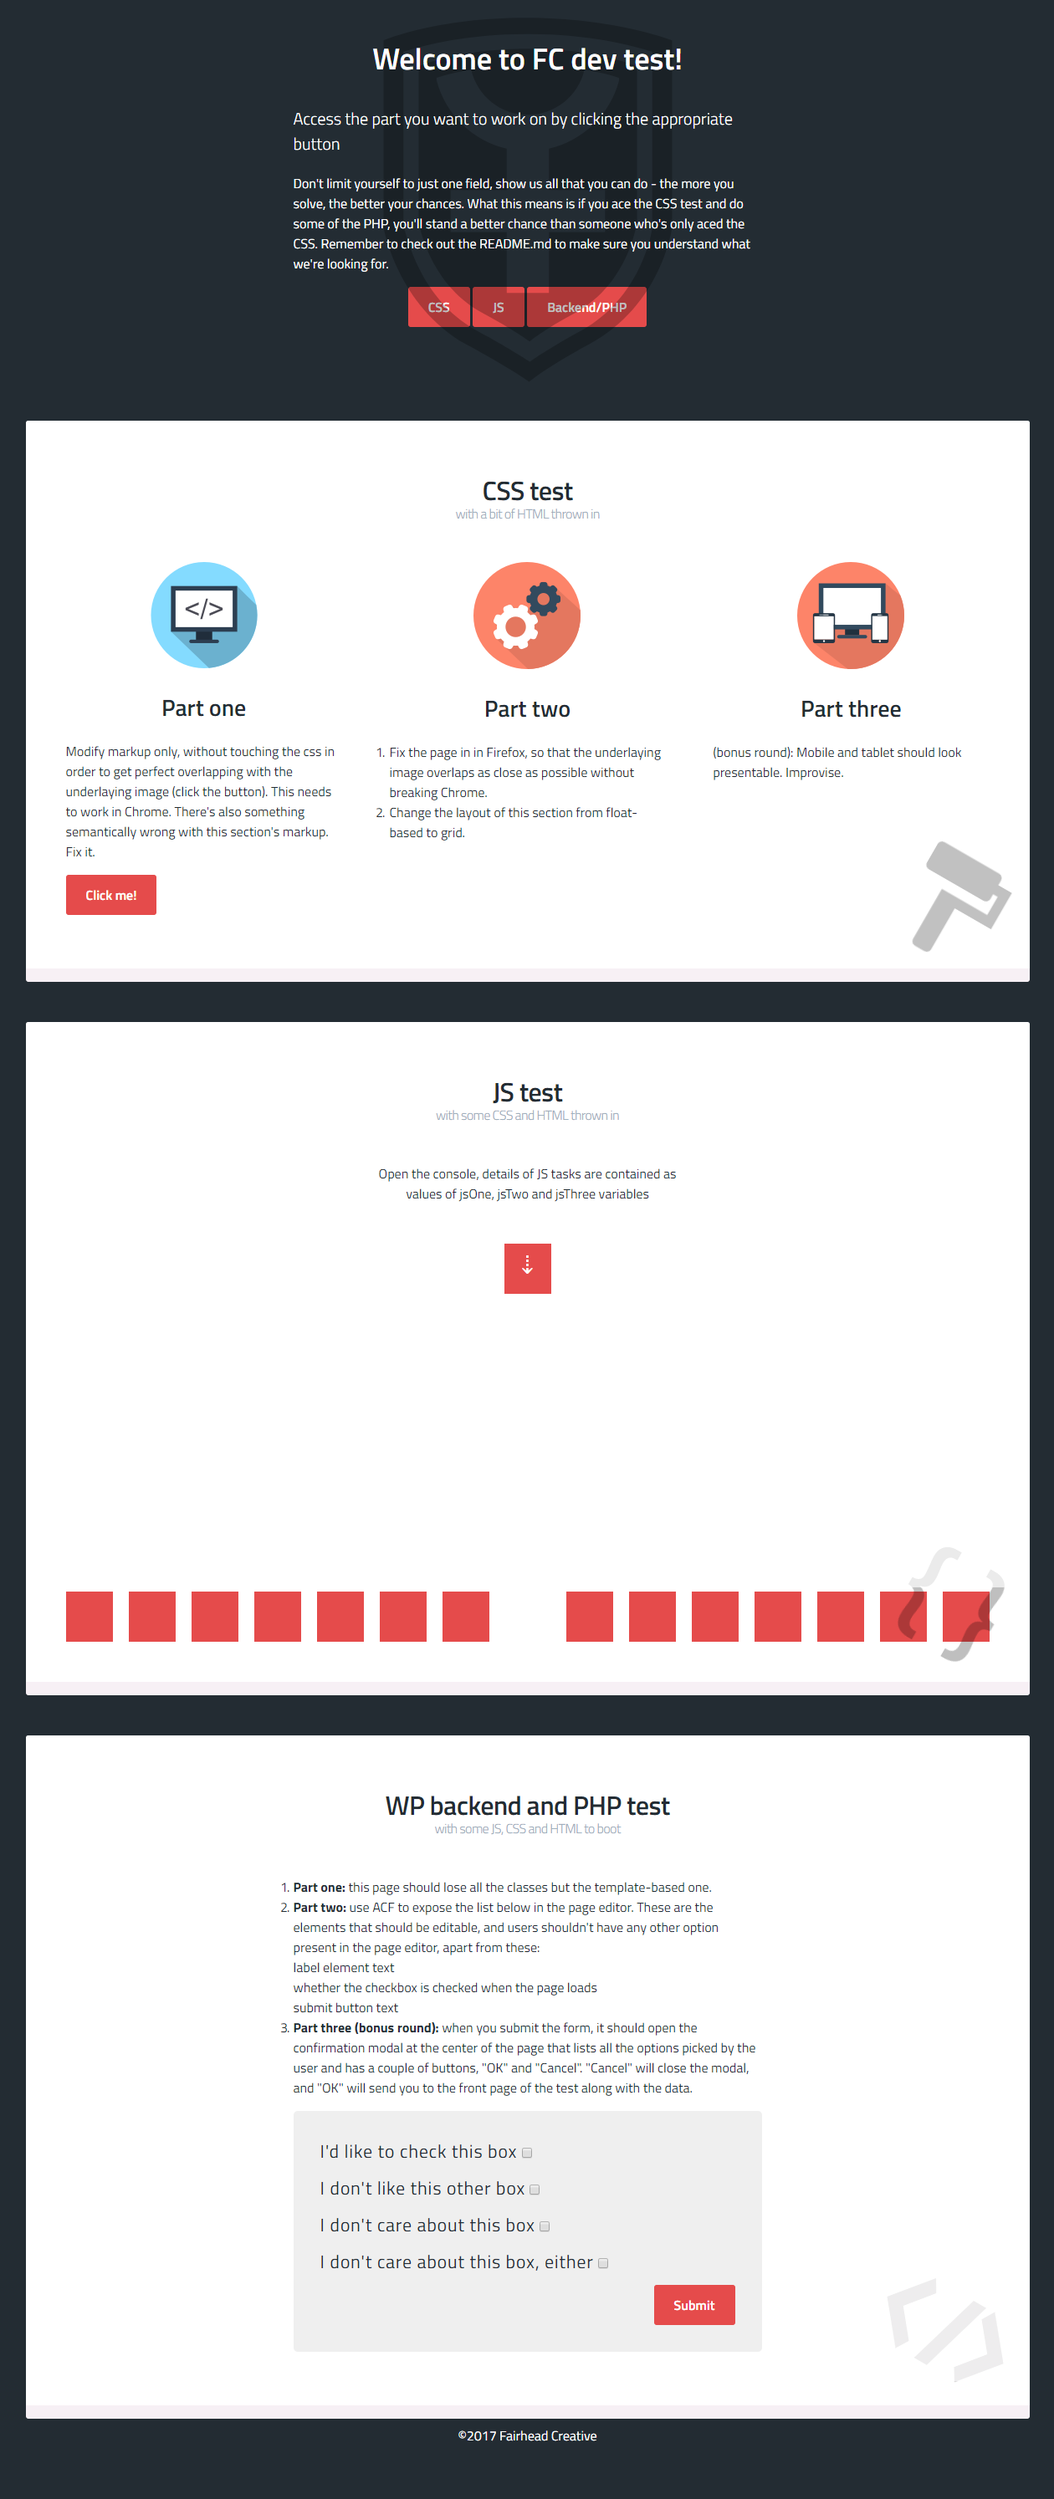
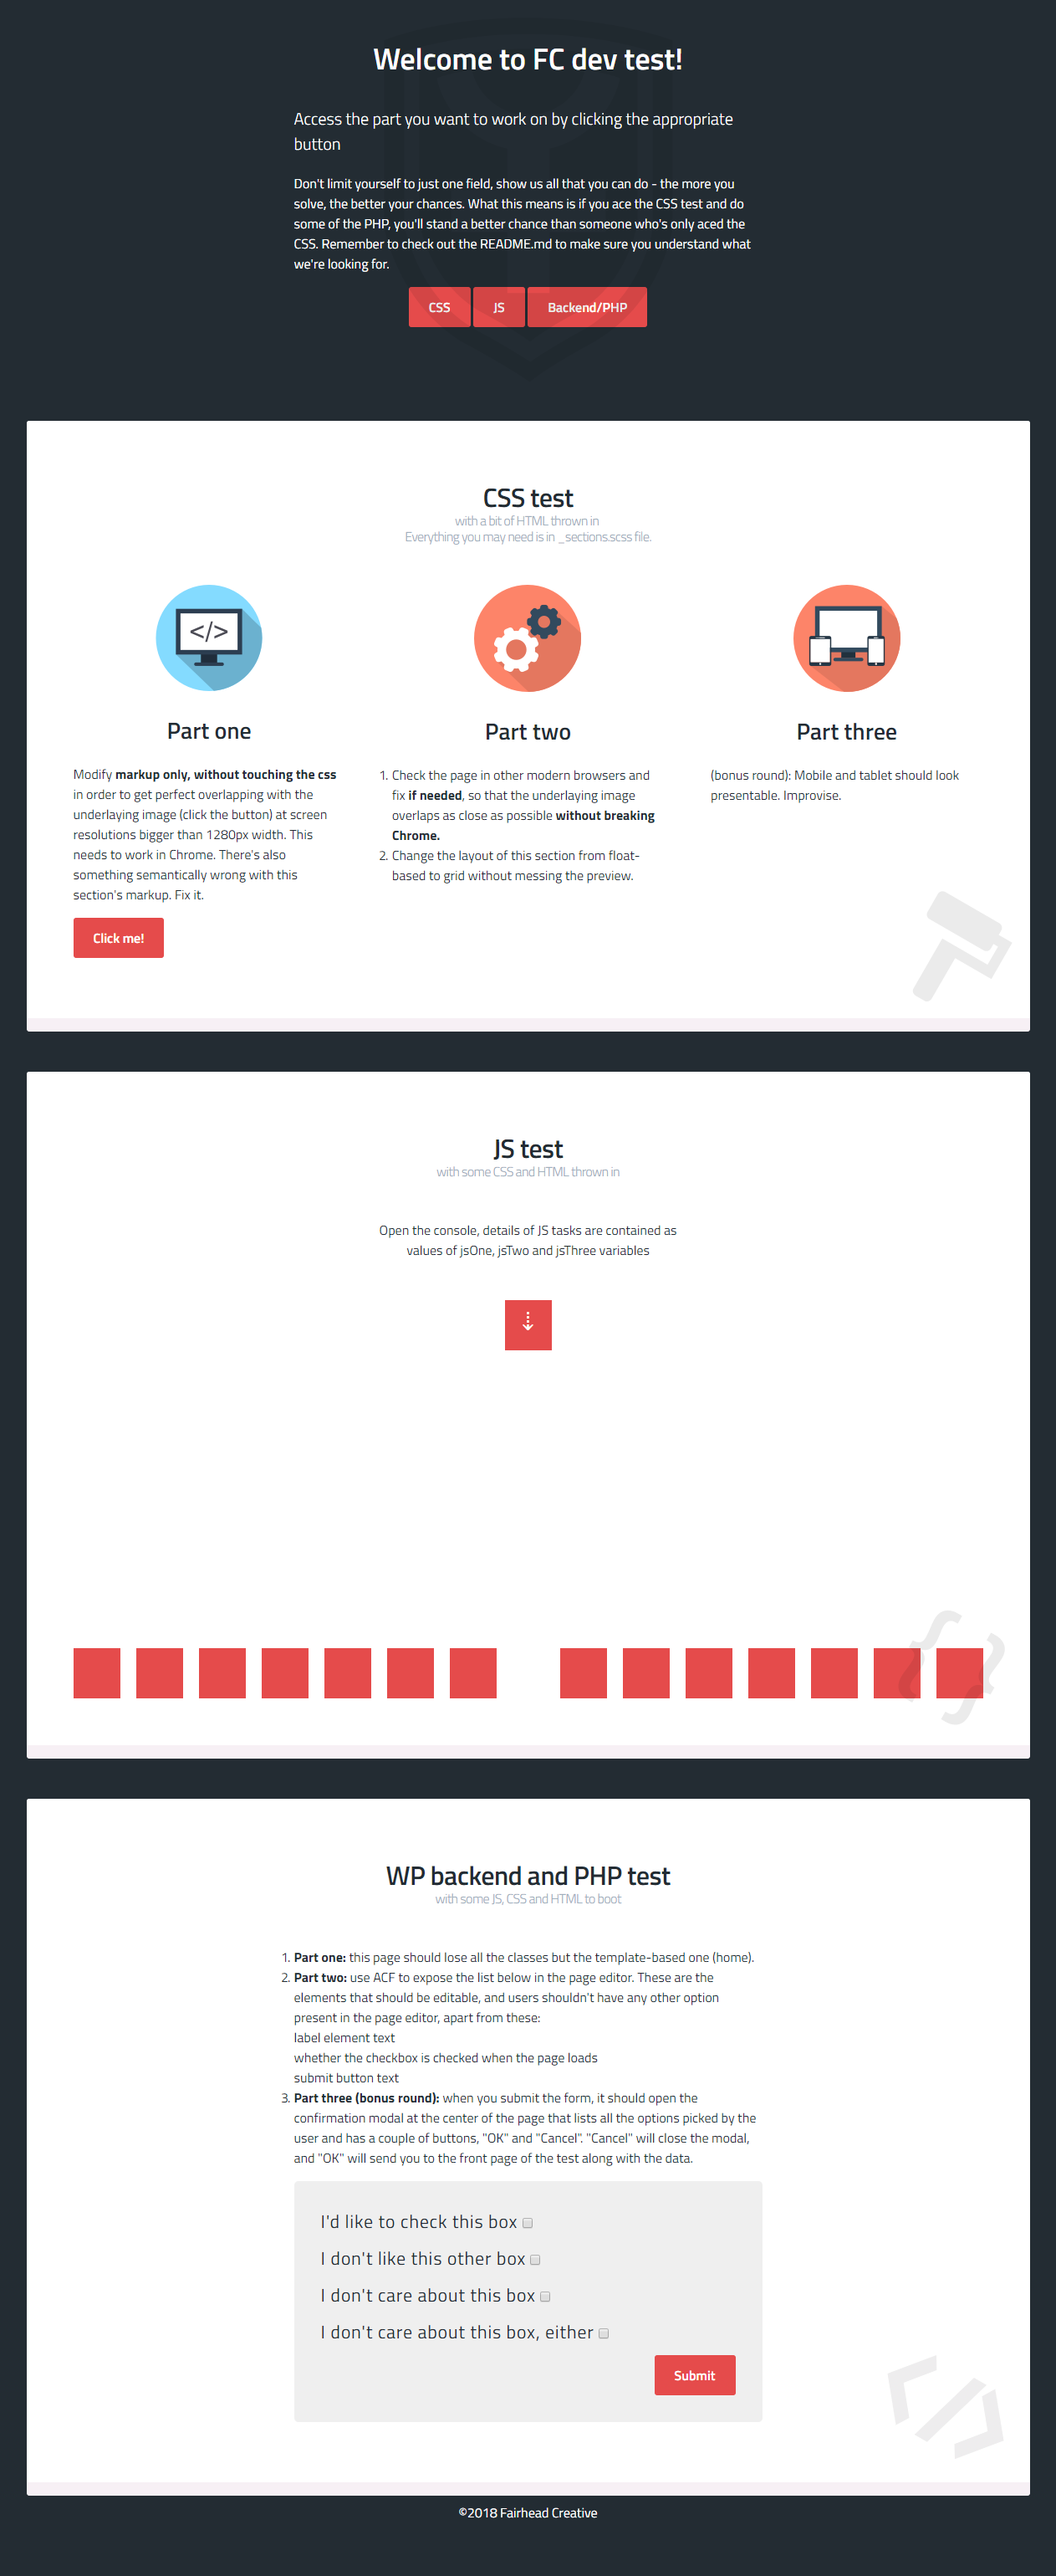
Modified test parameters

diff --git a/wp-content/themes/dev test/sass/theme/_mixins.scss b/wp-content/themes/dev test/sass/theme/_mixins.scss
@@ -1,35 +1,1 @@
 //mixins catalogue for use in any specific theme
-
-//transitions
-@mixin transition($property:all, $duration:$base-duration, $timing:null){
-  transition: $property $duration $timing;
-}
-
-//push in any direction for a number of ems
-@mixin push($direction, $value){
-  margin#{-$direction}: $base-spacing*$value;
-  
-  @if $direction == vertical {
-    $direction:null;
-    margin: $base-spacing*$value 0;
-  }
-  
-  @if $direction == horizontal {
-    $direction:null;
-    margin: 0 $base-spacing*$value;
-  }
-}
-
-//circle element
-@mixin circle($background:$action-color, $color:$black, $text-size:$base-font-size, $size:1){
-  display: inline-block;
-  background: $background;
-  font-size: $text-size;
-  color: $color;
-  border-radius: 50%;
-  width: $base-spacing*$size;
-  height: $base-spacing*$size;
-  line-height: $base-spacing*$size;
-  padding-right: $size*.03em;
-  text-align: center;
-}

diff --git a/wp-content/themes/dev test/includes/sections/section-css.php b/wp-content/themes/dev test/includes/sections/section-css.php
@@ -1,18 +1,18 @@
 <section class="content-css" id="css">
   <div class="content-container">
-    <h2>CSS test <span class="title-under">with a bit of HTML thrown in</span></h2>
+    <h2>CSS test <span class="title-under">with a bit of HTML thrown in <br>Everything you may need is in _sections.scss file.</span></h2>
       <article>
         <img src="<?php echo get_stylesheet_directory_uri(); ?>/images/css-markup.png">
         <h2>Part one</h2>
-        <p>Modify markup only, without touching the css in order to get perfect overlapping with the underlaying image (click the button). This needs to work in Chrome. There's also something semantically wrong with this section's markup. Fix it.</p>
+        <p>Modify <strong>markup only, without touching the css</strong> in order to get perfect overlapping with the underlaying image (click the button) at screen resolutions bigger than 1280px width. This needs to work in Chrome. There's also something semantically wrong with this section's markup. Fix it.</p>
         <p><a href="javascript:void(0);" class="button" data-toggle-trigger="overlay">Click me!</a></p>
       </article>
       <article>
         <img src="<?php echo get_stylesheet_directory_uri(); ?>/images/css-tweak.png">
         <h2>Part two</h2>
         <ol>
-          <li>Fix the page in in Firefox, so that the underlaying image overlaps as close as possible without breaking Chrome.</li>
-          <li>Change the layout of this section from float-based to grid.</li>
+          <li>Check the page in other modern browsers and fix <strong>if needed</strong>, so that the underlaying image overlaps as close as possible <strong>without breaking Chrome.</strong></li>
+          <li>Change the layout of this section from float-based to grid without messing the preview.</li>
         </ol>
       </article>
       <article>

diff --git a/wp-content/themes/dev test/functions.php b/wp-content/themes/dev test/functions.php
@@ -23,23 +23,6 @@ function helipad_scripts() {
 }
 add_action('wp_enqueue_scripts', 'helipad_scripts');
 
-
-// Remove extra data from the front of archive titles.
-add_filter( 'get_the_archive_title', function ($title) {
-  if ( is_category() ) {
-    $title = single_cat_title( '', false );
-  } elseif ( is_tag() ) {
-    $title = single_tag_title( '', false );
-  } elseif ( is_author() ) {
-    $title = '<span class="vcard">' . get_the_author() . '</span>' ;
-  }
-  return $title;
-});
-
-// Add post thumbnails.
-add_theme_support( 'post-thumbnails' );
-
-
 // Remove stock WP footer Message
 function wpse_edit_footer() {
   add_filter( 'admin_footer_text', 'wpse_edit_text', 11 );

diff --git a/wp-content/themes/dev test/includes/sections/section-php.php b/wp-content/themes/dev test/includes/sections/section-php.php
@@ -2,7 +2,7 @@
   <div class="content-container">
     <h2>WP backend and PHP test <span class="title-under">with some JS, CSS and HTML to boot</span></h2>
     <ol>
-      <li><strong>Part one:</strong> this page should lose all the classes but the template-based one.</li>
+      <li><strong>Part one:</strong> this page should lose all the classes but the template-based one (home).</li>
       <li><strong>Part two:</strong> use ACF to expose the list below in the page editor. These are the elements that should be editable, and users shouldn't have any other option present in the page editor, apart from these: 
         <ul>
           <li>label element text</li>

diff --git a/README.md b/README.md
@@ -37,34 +37,36 @@ These are the qualities we'll be considering while reviewing your solutions:
 
 Instructions
 ---
+The task is to fix or modify the Homepage of the theme provided with this repository.
 
 ### General section (or setting things up and starting the test)
 This is the part that everyone should be able to do themselves, regardless of being front or back-end:
 1. set up local environment
-2. fork this repo into your account and plug it into your local WP install
-3. pick Fairhead Creative Developers Test as your active theme
-4. set page-home.php as homepage, open it in your browser and start your test from there
+2. fork this repo into your account and plug it into your local Wordpress install
+3. rename the dev test theme folder to "dev test - YOUR NAME" and set the theme name as "Fairhead Creative Developers Test - YOUR NAME"
+4. set the newly created theme as as your active theme 
+5. set page-home.php as homepage, open it in your browser and start your test from there
 
 ### CSS Test
-* access it by clicking the appropriate button 
-* you'll be using SASS with SCSS syntax. The screen.scss file should compile to screen.css file.
-* we're using Bourbon, Neat & Bitters as base SASS libraries. Neat grid used in this test is Neat 1
-* placing your code into proper locations, being mindful of syntax and indentation and leaving a clean and readable file behind you will get you a long way. Being able to adapt, organized and respectful to other people's work counts
+* access it by clicking the appropriate button from the Homepage hero section
+* you'll be using SASS with SCSS syntax. The screen.scss file should compile to screen.css file (~PATH/sass sass --watch screen.scss:..\css\screen.css)
+* we're using Bourbon, Neat & Bitters as base SASS libraries, and they're already installed and set up. Neat grid used in this test is Neat 1
+* placing your code into proper locations, being mindful of syntax and indentation and leaving a clean and readable file behind you will get you a long way. Being able to adapt, organized and respectful to other people's work counts a lot
 
 ### JS Test
-* access it by clicking the apropriate button
+* access it by clicking the apropriate button from the Homepage hero section
 * use Grunt to compile everything from /js folder into the production.js, then minify to production.min.js file
-* you have all the libraries you need present in the theme folder
-* placing your code into proper locations, being mindful of syntax and indentation and leaving a clean and readable file behind you will get you a long way. Being able to adapt, organized and respectful to other people's work counts
+* you have all the libraries you need for this test present in the theme folder
+* placing your code into proper locations, being mindful of syntax and indentation and leaving a clean and readable file behind you will get you a long way. Being able to adapt, organized and respectful to other people's work counts a lot
 
 ### PHP/Backend Test
-* access it by clicking the apropriate button.
-* placing your code into proper locations, being mindful of syntax and indentation and leaving a clean and readable file behind you will get you a long way. Being able to adapt, organized and respectful to other people's work counts
+* access it by clicking the apropriate button from the Homepage hero section
+* placing your code into proper locations, being mindful of syntax and indentation and leaving a clean and readable file behind you will get you a long way. Being able to adapt, organized and respectful to other people's work counts a lot
 
 ### After you've finished with the test
-Add me (Denis) as a collaborator to your repo, and drop me a note outlining what you've done inside it, so I can clone, pull and review.
+Add me (Denis) as a collaborator to your repo, and drop me a note outlining what you've done inside it, so I can pull and review.
 Your message to me should consist of these details:
-1. outline what you did in your task. Feel free to go into as much technical details you want. Boast what you did better than the current codebase, and defend if you've made decisions you feel need defending
-2. show me how I should configure wp-admin in order to view your modifications properly (as if you were delivering a project to a client–assume my admins have set up a local wp install with nothing on it)
+1. outline what you did in each of your tasks. Feel free to go into as much technical details you want. Boast what you did better than the current codebase, and defend if you've made decisions you feel need defending
+2. show me how I should set up wp-admin in order to view your modifications properly (as if you were delivering a project to a client–assume I have set up a local wp install with nothing on it)
 3. any comments you might have, either on the codebase, or this test
-4. your contact details: First name, last name, Skype handle, email, your location and/or time zone, preferred working hours, and the number of hours you're available for work on weekly basis 
+4. your contact details: First name, last name, Skype handle, email, your location and/or time zone, preferred working hours, and maximum number of hours you may be available for work on weekly basis 
